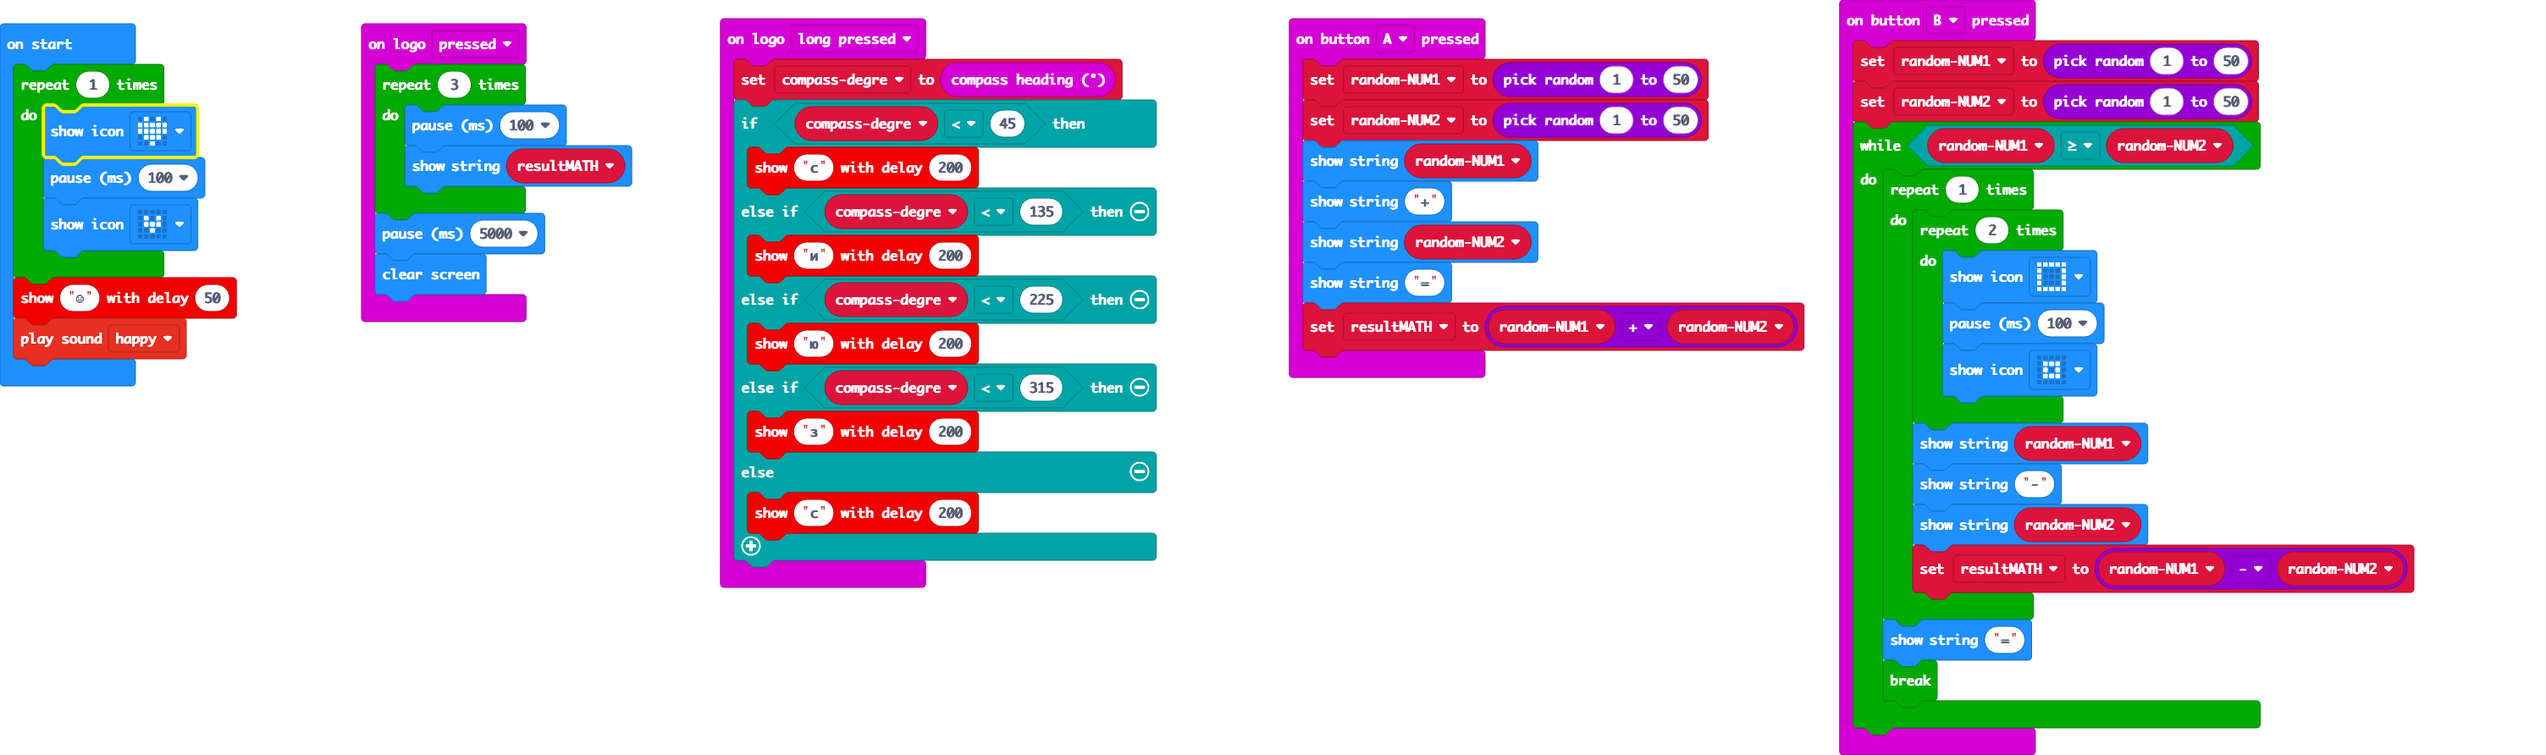
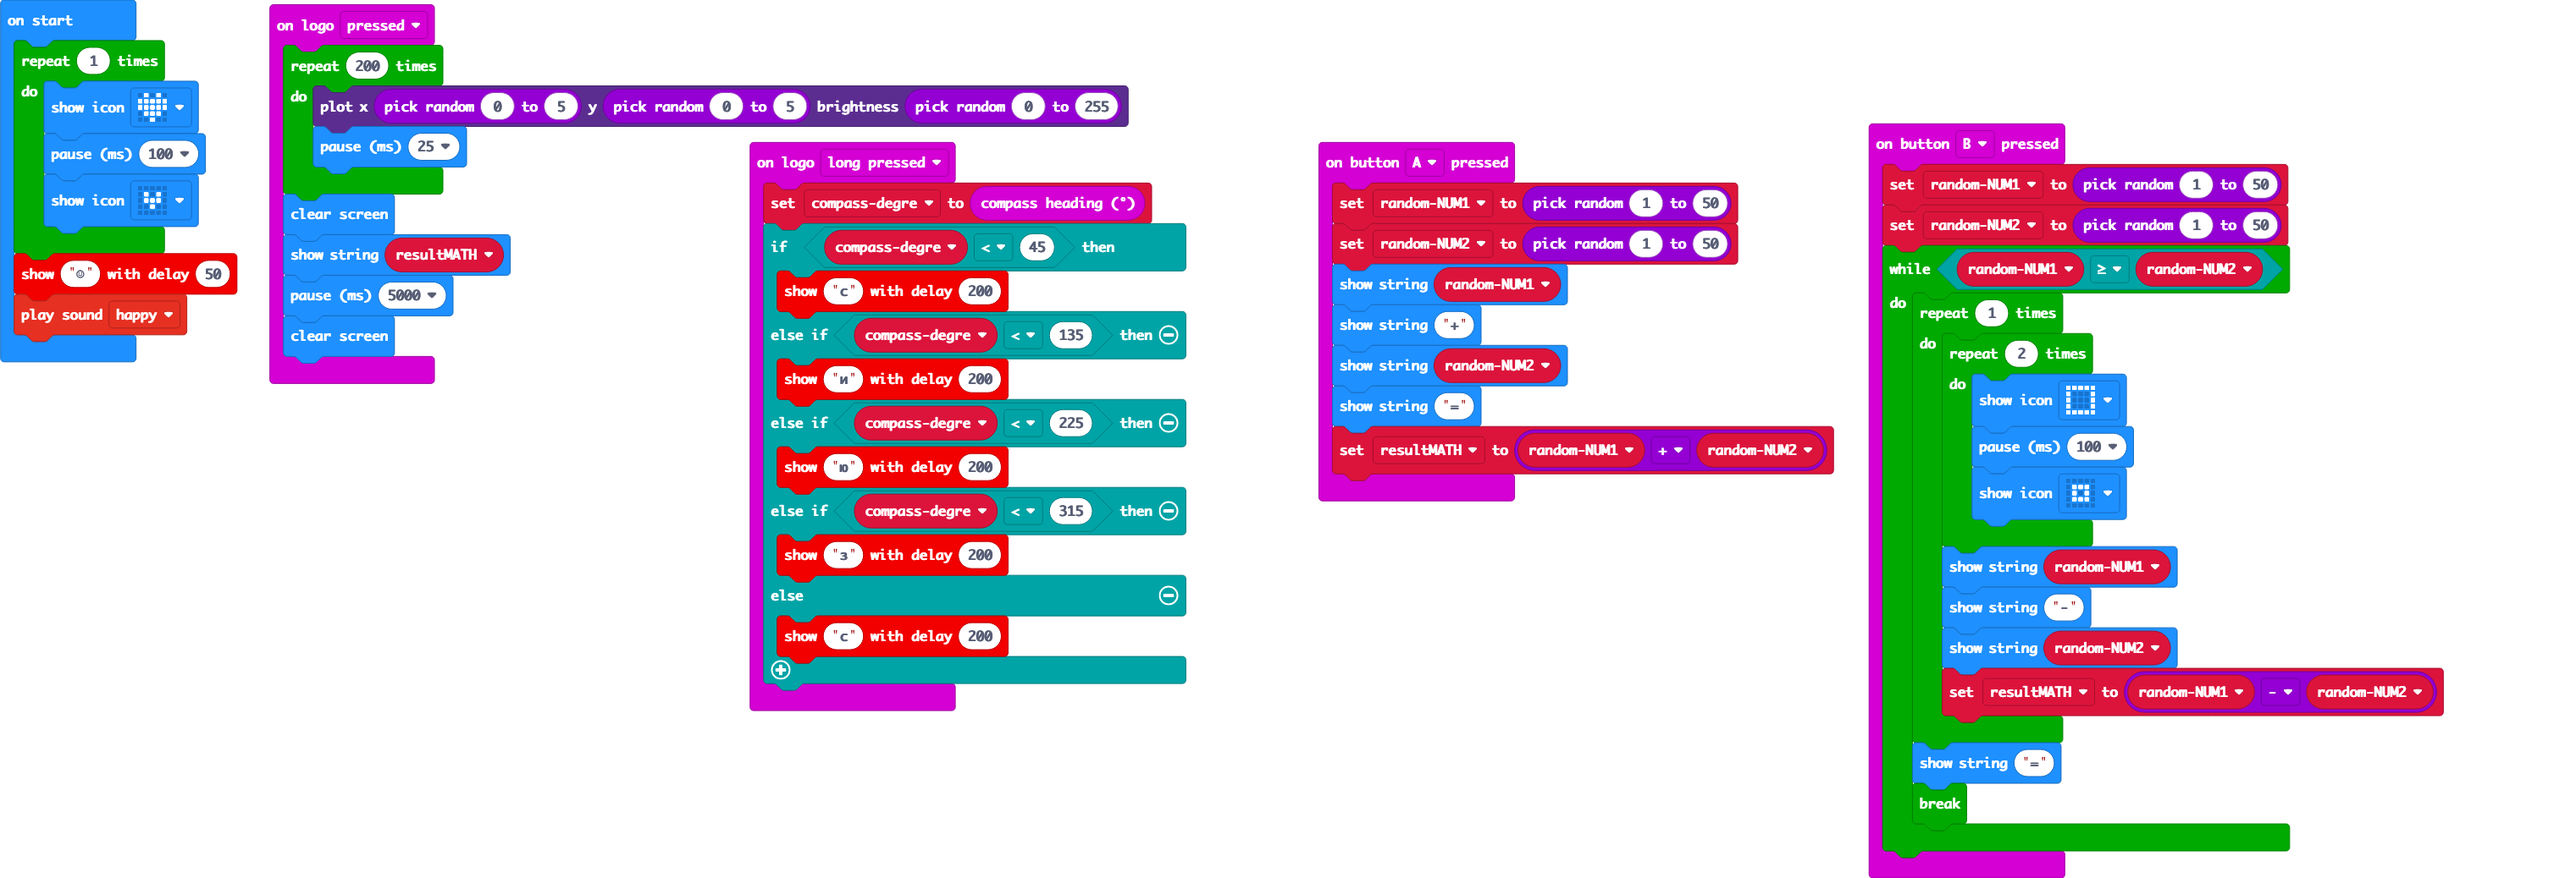
Update main.blocks, main.ts

diff --git a/main.ts b/main.ts
@@ -41,10 +41,12 @@ input.onButtonPressed(Button.B, function () {
     }
 })
 input.onLogoEvent(TouchButtonEvent.Pressed, function () {
-    for (let index = 0; index < 3; index++) {
-        basic.pause(100)
-        basic.showString("" + (resultMATH))
+    for (let index = 0; index < 200; index++) {
+        led.plotBrightness(randint(0, 5), randint(0, 5), randint(0, 255))
+        basic.pause(25)
     }
+    basic.clearScreen()
+    basic.showString("" + (resultMATH))
     basic.pause(5000)
     basic.clearScreen()
 })
